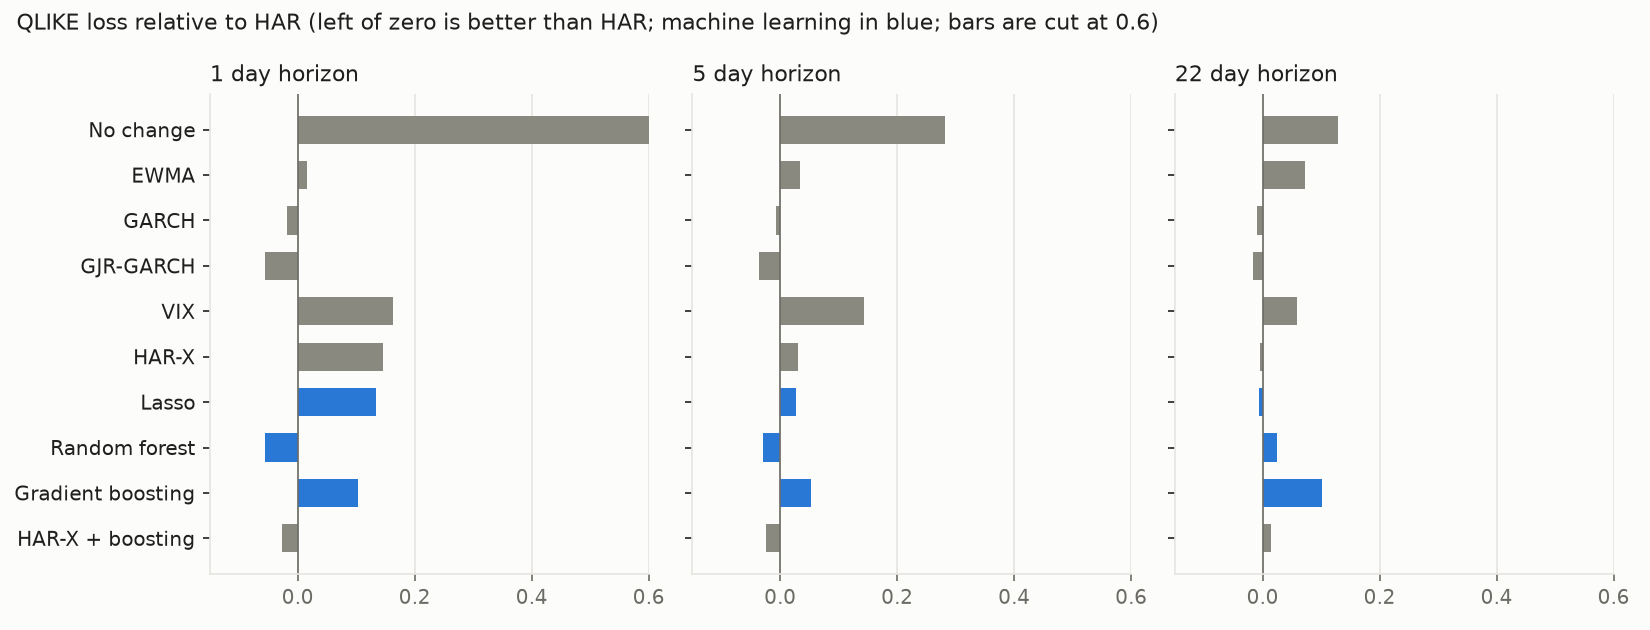
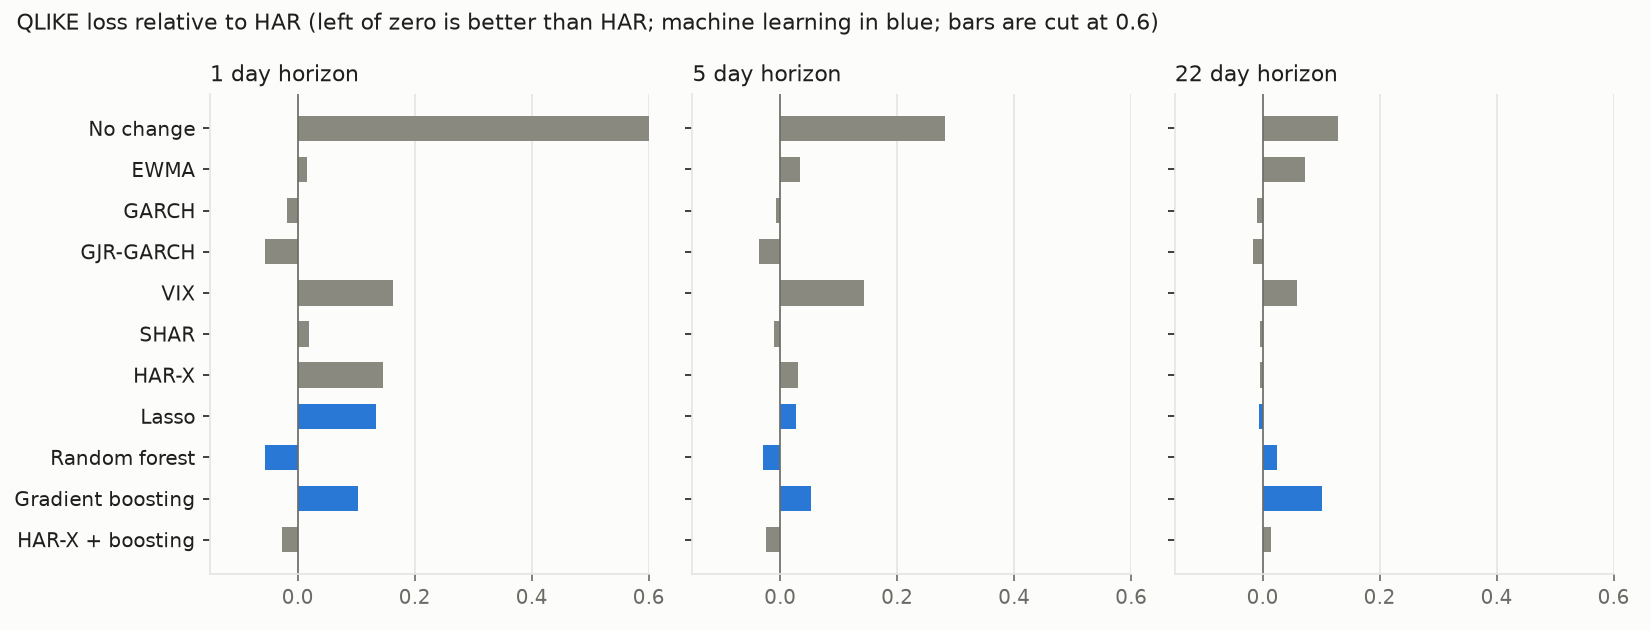
Give HAR the asymmetry directly with semivariance HAR
SHAR (Patton and Sheppard 2015) splits yesterday's squared return by
sign. It beats HAR at 5 and 22 days (QLIKE Diebold-Mariano t = -5.4 and
-3.5) but not at 1 day, and it closes less than a third of the gap to
GJR-GARCH, which still beats it at 1 and 5 days (t = 4.1 and 3.7). The
headline keeps its conclusion and now says how far the sign split goes.

Cite Hansen and Lunde (2005), Patton and Sheppard (2015) and
Christensen, Siggaard and Veliyev (2023). SHAR was added after the first
results, as the Design table says.

Claude-Session: https://claude.ai/code/session_013eQQvZtf5JRz7BdMA4Cp8R

diff --git a/scripts/render_readme.py b/scripts/render_readme.py
@@ -11,7 +11,7 @@ ROOT = Path(__file__).resolve().parents[1]
 MARK = "<!-- {name}:start (generated by scripts/render_readme.py, do not edit by hand) -->"
 END = "<!-- {name}:end -->"
 ML = ["Lasso", "Random forest", "Gradient boosting"]
-ORDER = ["No change", "EWMA", "GARCH", "GJR-GARCH", "VIX", "HAR", "HAR-X", "Lasso", "Random forest",
+ORDER = ["No change", "EWMA", "GARCH", "GJR-GARCH", "VIX", "HAR", "SHAR", "HAR-X", "Lasso", "Random forest",
          "Gradient boosting", "HAR-X + boosting"]
 
 
@@ -37,6 +37,11 @@ def headline(m: dict) -> str:
         "lasso beats HAR on MSE and not on QLIKE at 1 and 5 days": all(
             hs[h]["models"]["Lasso"]["dm_t_mse"] < -1.96 and hs[h]["models"]["Lasso"]["qlike_vs_har"] > 0 for h in ("1", "5")),
         "gradient boosting never beats HAR": all("Gradient boosting" not in wins[h] for h in hs),
+        "SHAR beats HAR at 5 and 22 days": all(hs[h]["models"]["SHAR"]["dm_t_qlike"] < -1.96 for h in ("5", "22")),
+        "SHAR does not beat HAR at 1 day": not sig(hs["1"]["models"]["SHAR"]["dm_p_qlike"]) or hs["1"]["models"]["SHAR"]["dm_t_qlike"] > 0,
+        "SHAR closes less than a third of the gap to GJR-GARCH at 5 days":
+            hs["5"]["models"]["SHAR"]["qlike_vs_har"] > hs["5"]["models"]["GJR-GARCH"]["qlike_vs_har"] / 3,
+        "GJR-GARCH still beats SHAR at 1 and 5 days": all(hs[h]["shar_vs_gjr_qlike"]["t"] > 1.96 for h in ("1", "5")),
     }
     failed = [k for k, ok in checks.items() if not ok]
     if failed:
@@ -55,7 +60,12 @@ def headline(m: dict) -> str:
         f"falling prices raise variance more than rising ones, beats HAR at 1 and 5 days "
         f"(t = {one['GJR-GARCH']['dm_t_qlike']:.1f} and {five['GJR-GARCH']['dm_t_qlike']:.1f}). The random "
         f"forest matches it at 1 day and no machine learning model is significantly better than it at "
-        f"any horizon. What HAR lacks is the asymmetry, not flexibility."
+        f"any horizon. What HAR lacks is the asymmetry, not flexibility. Giving HAR the asymmetry directly, "
+        f"by splitting yesterday's squared return by sign as Patton and Sheppard (2015) do, helps at 5 and 22 "
+        f"days (t = {five['SHAR']['dm_t_qlike']:.1f} and {hs['22']['models']['SHAR']['dm_t_qlike']:.1f}) but "
+        f"closes less than a third of the gap to GJR-GARCH at 5 days, which still beats it at 1 and 5 days "
+        f"(t = {hs['1']['shar_vs_gjr_qlike']['t']:.1f} and {hs['5']['shar_vs_gjr_qlike']['t']:.1f}, positive "
+        f"favours GJR-GARCH)."
     )
 
 

diff --git a/src/study.py b/src/study.py
@@ -35,7 +35,8 @@ from sklearn.preprocessing import StandardScaler
 SNAPSHOT = Path(__file__).resolve().parents[1] / "data" / "snapshot" / "market_daily.csv"
 HAR = ["rv_d", "rv_w", "rv_m"]
 HARX = [*HAR, "vix2", "neg"]
-MODELS = ["No change", "EWMA", "GARCH", "GJR-GARCH", "VIX", "HAR", "HAR-X", "Lasso",
+SHAR = ["neg", "pos", "rv_w", "rv_m"]   # Patton and Sheppard (2015): yesterday split by sign
+MODELS = ["No change", "EWMA", "GARCH", "GJR-GARCH", "VIX", "HAR", "SHAR", "HAR-X", "Lasso",
           "Random forest", "Gradient boosting", "HAR-X + boosting"]
 ML_MODELS = ["Lasso", "Random forest", "Gradient boosting"]
 SEED = 42
@@ -67,6 +68,7 @@ def features(df: pd.DataFrame) -> pd.DataFrame:
     f["rv_m"] = r2.rolling(22).mean()
     f["vix2"] = (df["vix"] / 100.0) ** 2 / 252.0
     f["neg"] = r2.where(df["r"] < 0, 0.0)
+    f["pos"] = r2 - f["neg"]
     return f
 
 
@@ -149,6 +151,7 @@ def walk_forward(df: pd.DataFrame, h: int, cfg: Config) -> pd.DataFrame:
             p[name] = garch_path(r - mean_r, params, h)[test]
         p["VIX"] = LinearRegression().fit(Xtr[["vix2"]], ytr).predict(Xte[["vix2"]])
         p["HAR"] = LinearRegression().fit(Xtr[HAR], ytr).predict(Xte[HAR])
+        p["SHAR"] = LinearRegression().fit(Xtr[SHAR], ytr).predict(Xte[SHAR])
         p["HAR-X"] = LinearRegression().fit(Xtr[HARX], ytr).predict(Xte[HARX])
         lasso = make_pipeline(StandardScaler(), LassoCV(cv=TimeSeriesSplit(5), random_state=SEED))
         p["Lasso"] = lasso.fit(Xtr[HARX], ytr).predict(Xte[HARX])

diff --git a/tests/test_study.py b/tests/test_study.py
@@ -89,3 +89,14 @@ def test_floor_and_diebold_mariano():
     assert worse["t"] > 5 and worse["p_two_sided"] < 0.001 and worse["lags"] >= 4
     d = rng.normal(0.1, 1, 500)
     assert study.newey_west_t(d, 0) == pytest.approx(d.mean() / (d.std() / np.sqrt(500)))
+
+
+def test_shar_features_split_yesterday_by_sign():
+    import numpy as np
+    import pandas as pd
+    from src import study
+    df = pd.DataFrame({"r": [0.01, -0.02, 0.03, -0.01] * 10, "vix": 20.0},
+                      index=pd.bdate_range("2020-01-01", periods=40))
+    f = study.features(df)
+    assert np.allclose(f["neg"] + f["pos"], f["rv_d"])
+    assert (f.loc[df["r"] > 0, "neg"] == 0).all() and (f.loc[df["r"] < 0, "pos"] == 0).all()

diff --git a/scripts/reproduce.py b/scripts/reproduce.py
@@ -91,6 +91,8 @@ def main() -> None:
             # added after the first run showed GJR-GARCH, not HAR, was the model to beat
             "ml_vs_gjr_qlike": {m: {"t": float(g.loc[m, "dm_t_qlike"]), "p": float(g.loc[m, "dm_p_qlike"])}
                                 for m in study.ML_MODELS},
+            # added with SHAR after a literature review: does HAR with the sign split catch GJR-GARCH?
+            "shar_vs_gjr_qlike": {"t": float(g.loc["SHAR", "dm_t_qlike"]), "p": float(g.loc["SHAR", "dm_p_qlike"])},
             "best_qlike": str(t["qlike"].idxmin()), "best_mse": str(t["mse"].idxmin()),
             "target_mean_annual_vol": float(np.sqrt(y.mean() * 252)),
         }

diff --git a/README.md b/README.md
@@ -5,7 +5,7 @@
 **Question.** HAR (Corsi 2009) forecasts variance from three numbers: yesterday's, last week's and last month's. Do lasso, random forest and gradient boosting, given the same information plus the VIX and a leverage term, forecast US equity variance better out of sample?
 
 <!-- headline:start (generated by scripts/render_readme.py, do not edit by hand) -->
-**Answer, on 6725 out-of-sample days from 2000 to 2026: sometimes, and it is the wrong comparison.** A random forest has a lower QLIKE loss than HAR at 1 and 5 days (Diebold-Mariano t = -5.7 and -2.9) but not at 22 days, and not under squared error at any horizon. Gradient boosting has a higher QLIKE loss than HAR at every horizon. The lasso beats HAR under squared error at 1 and 5 days and loses to it under QLIKE. The model that matters is an old one. GJR-GARCH, a four-parameter model from 1993 in which falling prices raise variance more than rising ones, beats HAR at 1 and 5 days (t = -6.7 and -4.7). The random forest matches it at 1 day and no machine learning model is significantly better than it at any horizon. What HAR lacks is the asymmetry, not flexibility.
+**Answer, on 6725 out-of-sample days from 2000 to 2026: sometimes, and it is the wrong comparison.** A random forest has a lower QLIKE loss than HAR at 1 and 5 days (Diebold-Mariano t = -5.7 and -2.9) but not at 22 days, and not under squared error at any horizon. Gradient boosting has a higher QLIKE loss than HAR at every horizon. The lasso beats HAR under squared error at 1 and 5 days and loses to it under QLIKE. The model that matters is an old one. GJR-GARCH, a four-parameter model from 1993 in which falling prices raise variance more than rising ones, beats HAR at 1 and 5 days (t = -6.7 and -4.7). The random forest matches it at 1 day and no machine learning model is significantly better than it at any horizon. What HAR lacks is the asymmetry, not flexibility. Giving HAR the asymmetry directly, by splitting yesterday's squared return by sign as Patton and Sheppard (2015) do, helps at 5 and 22 days (t = -5.4 and -3.5) but closes less than a third of the gap to GJR-GARCH at 5 days, which still beats it at 1 and 5 days (t = 4.1 and 3.7, positive favours GJR-GARCH).
 <!-- headline:end -->
 
 Every number on this page is written by `scripts/reproduce.py`, and CI fails if the page and the results file disagree.
@@ -27,6 +27,7 @@ Daily data 1990-01-02 to 2026-09-30 (9254 days). Every model is refitted each Ja
 | GJR-GARCH | -0.056 | -6.7 | -6.6% | -2.5 | 0.26 | 0.0% |
 | VIX | +0.162 | +5.4 | -3.2% | -1.4 | 0.23 | 20.8% |
 | **HAR** | 0 | | 0 | | 0.21 | 0.0% |
+| SHAR | +0.020 | +1.1 | -0.8% | -0.5 | 0.22 | 0.4% |
 | HAR-X | +0.145 | +5.1 | -4.7% | -2.1 | 0.25 | 16.3% |
 | Lasso | +0.133 | +4.8 | -4.6% | -2.1 | 0.25 | 15.8% |
 | Random forest | -0.057 | -5.7 | +0.7% | +0.2 | 0.20 | 0.0% |
@@ -43,6 +44,7 @@ Daily data 1990-01-02 to 2026-09-30 (9254 days). Every model is refitted each Ja
 | GJR-GARCH | -0.036 | -4.7 | -9.8% | -1.9 | 0.46 | 0.0% |
 | VIX | +0.144 | +4.6 | -1.2% | -0.2 | 0.41 | 11.9% |
 | **HAR** | 0 | | 0 | | 0.40 | 0.0% |
+| SHAR | -0.010 | -5.4 | -3.1% | -1.7 | 0.42 | 0.0% |
 | HAR-X | +0.030 | +1.7 | -10.0% | -2.9 | 0.46 | 4.5% |
 | Lasso | +0.027 | +1.5 | -9.5% | -2.8 | 0.46 | 4.4% |
 | Random forest | -0.029 | -2.9 | +10.8% | +1.1 | 0.33 | 0.0% |
@@ -59,6 +61,7 @@ Daily data 1990-01-02 to 2026-09-30 (9254 days). Every model is refitted each Ja
 | GJR-GARCH | -0.017 | -1.6 | -4.8% | -0.9 | 0.32 | 0.0% |
 | VIX | +0.059 | +1.7 | -5.7% | -0.6 | 0.32 | 1.3% |
 | **HAR** | 0 | | 0 | | 0.28 | 0.0% |
+| SHAR | -0.005 | -3.5 | -1.2% | -1.5 | 0.29 | 0.0% |
 | HAR-X | -0.004 | -0.3 | -5.2% | -1.2 | 0.32 | 0.0% |
 | Lasso | -0.007 | -0.5 | -5.1% | -1.1 | 0.32 | 0.0% |
 | Random forest | +0.024 | +1.1 | +10.1% | +0.6 | 0.21 | 0.0% |
@@ -86,7 +89,7 @@ Daily data 1990-01-02 to 2026-09-30 (9254 days). Every model is refitted each Ja
 ## Reading the results
 
 - **The ranking depends on the loss, and that is informative.** QLIKE punishes a forecast that is too low much more than one that is too high. Squared error is dominated by a few crisis days. The linear models with VIX (HAR-X, lasso) do well on squared error and badly on QLIKE because a regression in levels sometimes forecasts a variance near zero on calm days. The last column shows how often that happened.
-- **Asymmetry is what pays.** GJR-GARCH differs from plain GARCH by one parameter that lets a fall in prices raise variance more than a rise. That one parameter is worth more than the move from HAR to any machine learning model here.
+- **Asymmetry is what pays.** GJR-GARCH differs from plain GARCH by one parameter that lets a fall in prices raise variance more than a rise. That one parameter is worth more than the move from HAR to any machine learning model here. Hansen and Lunde (2005) found the same on IBM: across 330 models, leverage models clearly beat GARCH(1,1) on equities. The asymmetry also helps inside HAR (SHAR), though less: a model that carries a decaying variance recursion uses the sign of every past shock, while SHAR sees the sign of yesterday's only.
 - **The random forest earns its result honestly but narrowly.** It beats HAR under QLIKE at short horizons, ties GJR-GARCH at one day, and gives the gain back at 22 days and under squared error. In 2008 to 2009 it is clearly worse than HAR.
 - **Gradient boosting needs more data than it had.** It is far worse than HAR in the 2000s, when it was trained on ten to twenty years of a very noisy target, and slightly better than HAR since 2010. Over the whole period it loses.
 - **GJR-GARCH has one bad period,** 2020, when variance jumped faster than its recursion could follow.
@@ -98,7 +101,7 @@ Daily data 1990-01-02 to 2026-09-30 (9254 days). Every model is refitted each Ja
 |---|---|
 | Target | Average squared daily log return of the US market over the next 1, 5 or 22 trading days. It never overlaps the data the forecast uses. |
 | Features | Squared return today, its 5 and 22 day means, squared VIX, and today's squared return if negative. All known at the close. |
-| Models | No change, EWMA (0.94), GARCH, GJR-GARCH, a regression on VIX, HAR, HAR-X (HAR plus VIX and the negative-return term), lasso, random forest, gradient boosting, and the average of HAR-X and boosting. The three machine learning models see the HAR-X features. |
+| Models | No change, EWMA (0.94), GARCH, GJR-GARCH, a regression on VIX, HAR, SHAR (HAR with yesterday's squared return split by sign, Patton and Sheppard 2015; added after the first results), HAR-X (HAR plus VIX and the negative-return term), lasso, random forest, gradient boosting, and the average of HAR-X and boosting. The three machine learning models see the HAR-X features. |
 | Protocol | Expanding window. Every model is refitted each January on days whose target is already realised. Forecasts run from 2000. |
 | Loss | QLIKE and squared error. Both rank variance forecasts correctly when the target is a noisy proxy (Patton 2011). |
 | Test | Diebold-Mariano against HAR, Newey-West errors. |
@@ -114,7 +117,7 @@ Daily data 1990-01-02 to 2026-09-30 (9254 days). Every model is refitted each Ja
 
 ## Limits
 
-- Squared daily returns are a noisy proxy. Realized variance from intraday data would sharpen every comparison, and free intraday history is not available.
+- Squared daily returns are a noisy proxy. Realized variance from intraday data would sharpen every comparison, and free intraday history is not available. Christensen, Siggaard and Veliyev (2023) find clearer machine learning gains over HAR using 5 minute realized variance, which is consistent with the noise in this target hiding them. Range-based estimators from free daily highs and lows would be a cheaper improvement and are not used here.
 - One asset. The US market return comes from the Ken French library, VIX from FRED.
 - The floor rule was changed once. A first run at the 5 day horizon used the 1st percentile of the training target, which left near-zero forecasts that dominated QLIKE. Rankings under squared error do not depend on the floor.
 - The comparison against GJR-GARCH was added after seeing that it, not HAR, was the model to beat.
@@ -145,6 +148,9 @@ data/snapshot/            frozen daily returns and VIX, 1990 to 2026
 ## References
 
 - Corsi, F. (2009). A simple approximate long-memory model of realized volatility. *Journal of Financial Econometrics* 7(2).
+- Christensen, K., Siggaard, M. and Veliyev, B. (2023). A machine learning approach to volatility forecasting. *Journal of Financial Econometrics* 21(5).
 - Diebold, F. and Mariano, R. (1995). Comparing predictive accuracy. *Journal of Business and Economic Statistics* 13(3).
 - Glosten, L., Jagannathan, R. and Runkle, D. (1993). On the relation between the expected value and the volatility of the nominal excess return on stocks. *Journal of Finance* 48(5).
+- Hansen, P. and Lunde, A. (2005). A forecast comparison of volatility models: does anything beat a GARCH(1,1)? *Journal of Applied Econometrics* 20(7).
 - Patton, A. (2011). Volatility forecast comparison using imperfect volatility proxies. *Journal of Econometrics* 160(1).
+- Patton, A. and Sheppard, K. (2015). Good volatility, bad volatility: signed jumps and the persistence of volatility. *Review of Economics and Statistics* 97(3).
